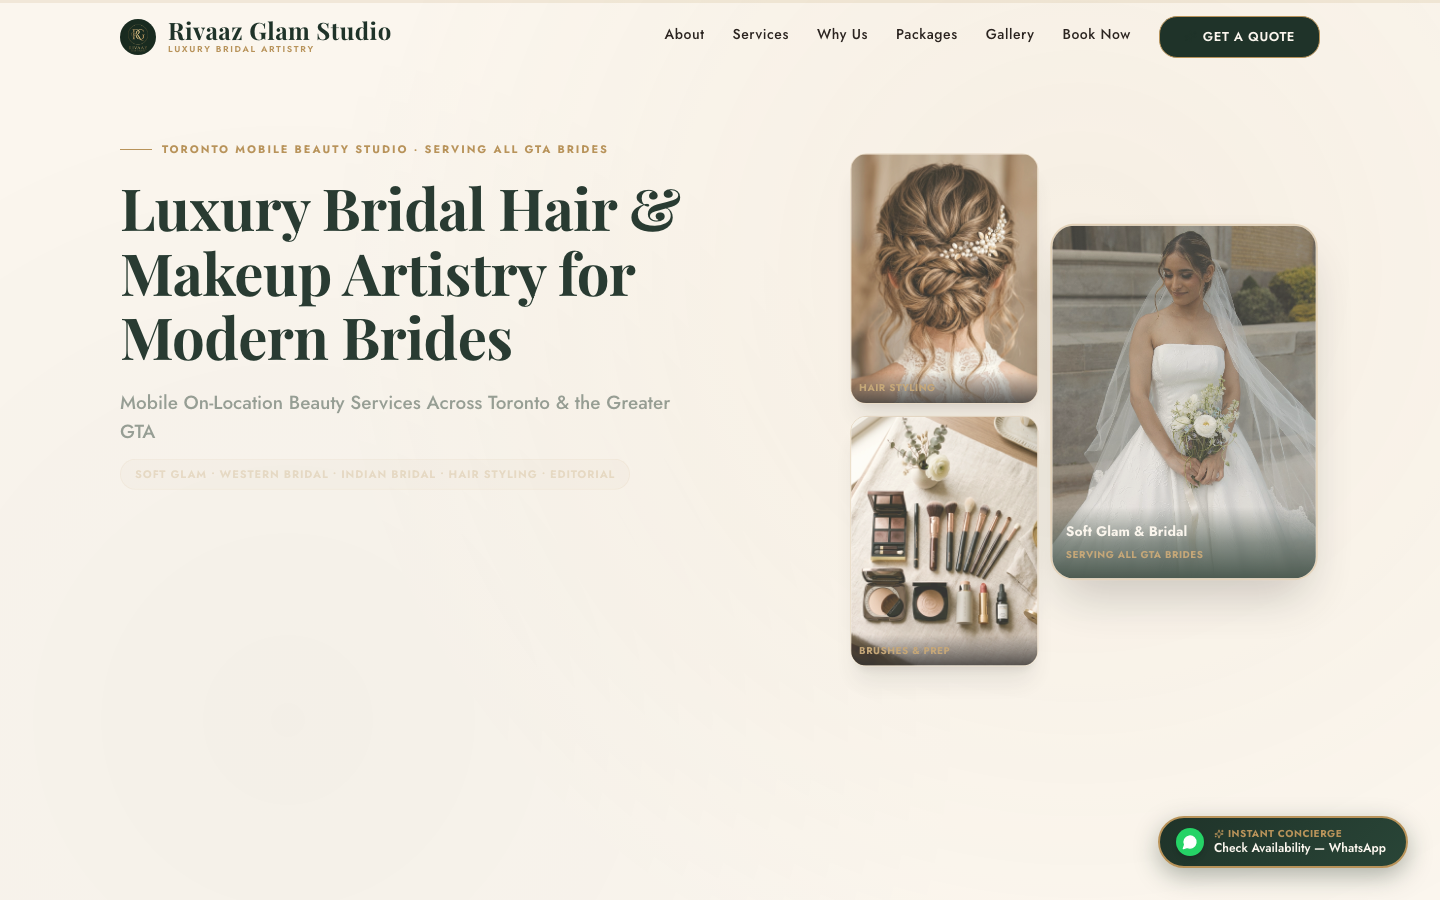
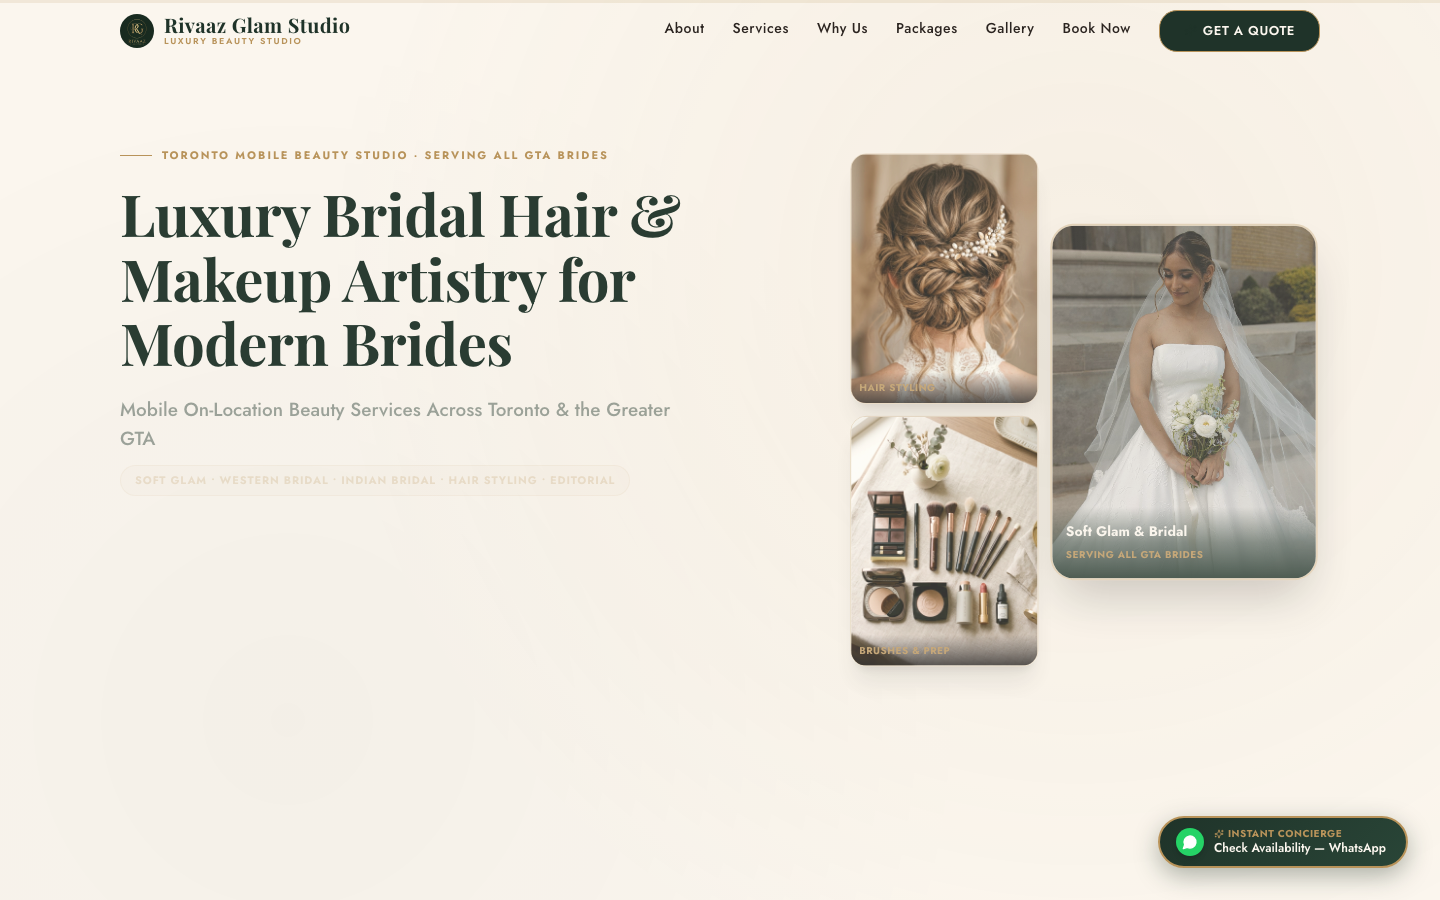
feat(ux): implement Dior/Charlotte Tilbury inspired mobile-first luxury redesign with 70px navbar, 2-col Instagram portfolio feed, 4 core service cards, and compact CTAs

diff --git a/src/components/HeroSection.tsx b/src/components/HeroSection.tsx
@@ -156,19 +156,19 @@ export default function HeroSection() {
               </span>
             </motion.div>
 
-            {/* Responsive Action Buttons (Stacked on mobile, row on tablet/desktop) */}
+            {/* Responsive Action Buttons (Side-by-side compact buttons on mobile) */}
             <motion.div
               initial={{ opacity: 0, y: 16 }}
               animate={ctaReady ? { opacity: 1, y: 0 } : {}}
               transition={{ duration: 0.6, delay: 0.15, ease: "easeOut" }}
-              className="flex flex-col sm:flex-row items-stretch sm:items-center gap-3.5 mb-8 w-full sm:w-auto"
+              className="flex flex-row items-center gap-3 mb-6 w-full sm:w-auto"
             >
               <button
                 onClick={(e) => {
                   handleRipple(e);
                   document.querySelector("#contact")?.scrollIntoView({ behavior: "smooth" });
                 }}
-                className="relative overflow-hidden py-4 px-8 rounded-full flex items-center justify-center gap-2 font-sans font-bold text-sm shadow-xl active:scale-95 transition-transform"
+                className="flex-1 sm:flex-none relative overflow-hidden py-3.5 px-6 rounded-full flex items-center justify-center gap-2 font-sans font-bold text-xs sm:text-sm shadow-xl active:scale-95 transition-transform"
                 style={{
                   background: "linear-gradient(135deg, #1F3329 0%, #294537 100%)",
                   border: "1px solid #B8935A",
@@ -177,26 +177,13 @@ export default function HeroSection() {
                 }}
                 data-testid="hero-primary-cta"
               >
-                <span>Book Your Appointment</span>
-                <ArrowRight size={16} className="text-[#B8935A]" />
-                {ripples.map((r) => (
-                  <span
-                    key={r.id}
-                    className="absolute bg-white/30 rounded-full animate-ping pointer-events-none"
-                    style={{
-                      left: r.x,
-                      top: r.y,
-                      width: 100,
-                      height: 100,
-                      transform: "translate(-50%, -50%)",
-                    }}
-                  />
-                ))}
+                <span>Book Appointment</span>
+                <ArrowRight size={14} className="text-[#B8935A]" />
               </button>
 
               <button
                 onClick={() => document.querySelector("#gallery")?.scrollIntoView({ behavior: "smooth" })}
-                className="py-4 px-8 rounded-full flex items-center justify-center gap-2 font-sans font-semibold text-sm transition-all border active:scale-95"
+                className="flex-1 sm:flex-none py-3.5 px-6 rounded-full flex items-center justify-center gap-2 font-sans font-semibold text-xs sm:text-sm transition-all border active:scale-95"
                 style={{
                   borderColor: "rgba(184, 147, 90, 0.4)",
                   background: "rgba(251, 246, 238, 0.7)",

diff --git a/src/components/GallerySection.tsx b/src/components/GallerySection.tsx
@@ -240,7 +240,7 @@ export default function GallerySection() {
           ))}
         </div>
 
-        {/* Masonry / App-Carousel grid */}
+        {/* Masonry / Instagram 2-Column App Grid */}
         <AnimatePresence mode="wait">
           <motion.div
             key={activeCategory}
@@ -248,7 +248,7 @@ export default function GallerySection() {
             animate={{ opacity: 1 }}
             exit={{ opacity: 0 }}
             transition={{ duration: 0.3 }}
-            className="grid grid-cols-1 sm:grid-cols-2 lg:grid-cols-3 gap-6"
+            className="grid grid-cols-2 sm:grid-cols-2 lg:grid-cols-3 gap-3 sm:gap-6"
           >
             {filtered.map((item, i) => (
               <motion.div
@@ -257,15 +257,7 @@ export default function GallerySection() {
                 animate={{ opacity: 1, y: 0 }}
                 transition={{ duration: 0.4, delay: i * 0.05 }}
                 data-testid={`gallery-item-${i}`}
-                className="w-full relative group"
-                style={{
-                  position: "relative",
-                  borderRadius: "18px",
-                  overflow: "hidden",
-                  border: "1px solid rgba(184, 147, 90, 0.4)",
-                  cursor: "pointer",
-                  boxShadow: "0 8px 24px rgba(31, 51, 41, 0.08)",
-                }}
+                className="w-full relative group rounded-2xl overflow-hidden border border-[#B8935A]/40 shadow-lg cursor-pointer aspect-[4/5] sm:aspect-square"
                 onClick={() => setSelectedIndex(i)}
                 onMouseEnter={() => setHoveredIndex(i)}
                 onMouseLeave={() => setHoveredIndex(null)}
@@ -276,7 +268,7 @@ export default function GallerySection() {
                   loading="lazy"
                   style={{
                     width: "100%",
-                    height: item.height,
+                    height: "100%",
                     display: "block",
                     objectFit: "cover",
                     transform: hoveredIndex === i ? "scale(1.05)" : "scale(1)",

diff --git a/src/components/ServicesSection.tsx b/src/components/ServicesSection.tsx
@@ -1,3 +1,4 @@
+import { useState } from "react";
 import { motion } from "framer-motion";
 import { ArrowRight, Sparkles } from "lucide-react";
 import ImageWithFallback from "./ImageWithFallback";
@@ -153,6 +154,9 @@ const servicePillars = [
 ];
 
 export default function ServicesSection() {
+  const [showAll, setShowAll] = useState(false);
+  const visibleServices = showAll ? featuredServices : featuredServices.slice(0, 4);
+
   return (
     <section
       id="services"
@@ -220,9 +224,9 @@ export default function ServicesSection() {
           </p>
         </motion.div>
 
-        {/* 10 Featured services cards — Responsive 3-column desktop grid / 2-column tablet / 1-column mobile */}
-        <div className="grid grid-cols-1 md:grid-cols-2 lg:grid-cols-3 gap-6 lg:gap-8 mb-20">
-          {featuredServices.map((service, i) => (
+        {/* Featured services cards — 4 core cards initially, full suite when expanded */}
+        <div className="grid grid-cols-1 md:grid-cols-2 lg:grid-cols-4 gap-6 lg:gap-8 mb-10">
+          {visibleServices.map((service, i) => (
             <motion.div
               key={service.title}
               initial={{ opacity: 0, y: 30 }}
@@ -349,6 +353,17 @@ export default function ServicesSection() {
             </motion.div>
           ))}
         </div>
+
+        {!showAll && (
+          <div className="text-center mt-6 mb-16">
+            <button
+              onClick={() => setShowAll(true)}
+              className="px-8 py-3.5 rounded-full border-2 border-[#B8935A] bg-[#1F3329] text-[#FBF6EE] font-bold text-xs uppercase tracking-widest shadow-xl hover:bg-[#B8935A] hover:text-[#1F3329] transition-all active:scale-95"
+            >
+              + View All 14 Luxury Services
+            </button>
+          </div>
+        )}
 
         {/* 8 Full Service Pillars Grid with ✨ Icon */}
         <motion.div

diff --git a/src/components/Navigation.tsx b/src/components/Navigation.tsx
@@ -118,24 +118,24 @@ export default function Navigation() {
           boxShadow: scrolled ? "0 4px 24px rgba(31, 51, 41, 0.08)" : "none",
         }}
       >
-        <div className="max-w-7xl mx-auto px-6 lg:px-10 py-4 flex items-center justify-between">
+        <div className="max-w-7xl mx-auto px-5 lg:px-10 py-2.5 flex items-center justify-between">
           {/* Wordmark with Monogram Logo Mark */}
           <a
             href="#"
-            className="flex items-center gap-3"
+            className="flex items-center gap-2.5"
             data-testid="nav-wordmark"
             style={{ textDecoration: "none" }}
           >
-            <LogoMark size={36} />
+            <LogoMark size={34} />
             <div className="flex flex-col leading-tight">
               <span
                 style={{
                   fontFamily: "var(--app-font-serif)",
-                  fontSize: "24px",
+                  fontSize: "clamp(17px, 2.5vw, 20px)",
                   fontWeight: 700,
                   color: "#1F3329",
                   letterSpacing: "0.02em",
-                  lineHeight: 1,
+                  lineHeight: 1.05,
                 }}
               >
                 Rivaaz Glam Studio
@@ -148,10 +148,10 @@ export default function Navigation() {
                   color: "#B8935A",
                   letterSpacing: "0.18em",
                   textTransform: "uppercase",
-                  lineHeight: 1.6,
+                  lineHeight: 1.4,
                 }}
               >
-                Luxury Bridal Artistry
+                Luxury Beauty Studio
               </span>
             </div>
           </a>
